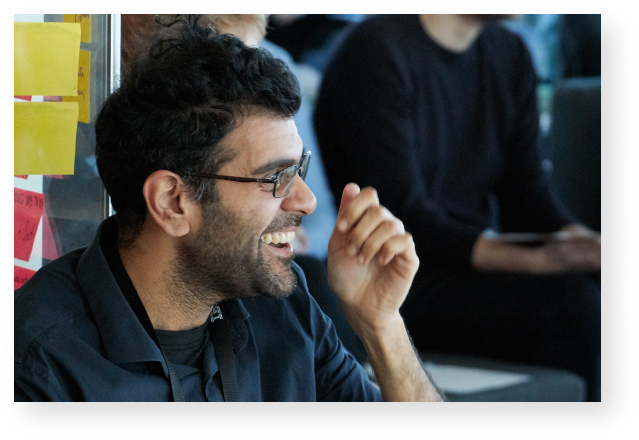
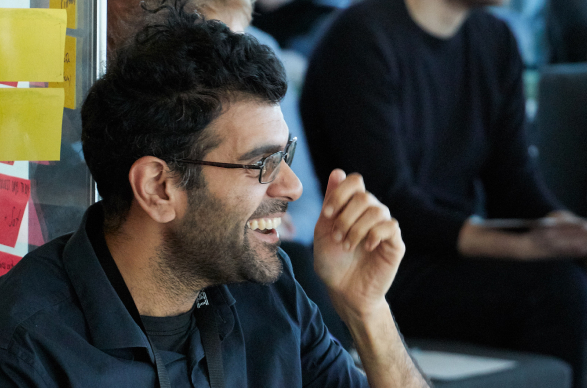
Improve responsiveness of Track Page

diff --git a/frontend/src/components/tracks/what-you-learn/_styles.css b/frontend/src/components/tracks/what-you-learn/_styles.css
@@ -11,20 +11,40 @@
 }
 
 .wyl-content__title {
-  font-size: 72px;
   font-weight: 700;
   margin-top: 90px;
-  margin-bottom: 30px;
+  margin-bottom: 40px;
+  font-size: calc(32px + 3vw);
+
+  @media (max-width: 850px) { 
+    margin-top: 50px;
+  }
+
+  @media (min-width: 1280px) {
+    font-size: 72px;
+  }
 }
 
 .wyl-content__subtitle {
-  font-size: 24px;
+  font-size: calc(14px + 0.7vw);
   font-weight: 700;
   margin-bottom: 70px;
+
+  @media (max-width: 850px) { 
+    margin-bottom: 30px;
+  }
+
+  @media (min-width: 1280px) {
+    font-size: 24px;
+  }
 }
 
-.wyl-content__info__description-box__description {
-  font-size: 18px;
+.wyl-content__info__description-box__text {
+  font-size: calc(10px + 0.6vw);
+
+  @media (min-width: 1280px) {
+    font-size: 18px;
+  }
 }
 
 .wyl-content__info__description-box__text p:nth-child(1) {
@@ -43,6 +63,7 @@
   height: 0;
   padding-bottom: 65%;
   margin-bottom: -70px;
+  box-shadow: 12px 12px 26px rgba(0, 0, 0, 0.15);
 }
 
 .wyl-content__background {

diff --git a/frontend/src/components/tracks/header/_styles.css b/frontend/src/components/tracks/header/_styles.css
@@ -15,31 +15,29 @@
   justify-content: center;
   height: calc(100% - var(--nav-height-desktop));
   padding-top: 5%;
-  padding-bottom: 10%;
+  padding-bottom: 12%;
 }
 
 .tracks__header-content__title {
   margin: 0;
   color: white;
-  font-size: 64px;
   text-transform: uppercase;
   font-weight: 800;
+  font-size: calc(32px + 3vw);
 
-  @media (max-width: 620px) {
-    font-size: 32px
+  @media (min-width: 1280px) {
+    font-size: 72px;
   }
-
 }
 
 .tracks__header-content__description {
   color: white;
   max-width: var(--max-width);
-  font-size: 20px;
   font-weight: 600;
   margin-bottom: 20px;
+  font-size: calc(10px + 0.7vw);
 
-  @media (max-width: 620px) {
-    font-size: 16px
+  @media (min-width: 1280px) {
+    font-size: 20px;
   }
 }
-

diff --git a/frontend/src/components/tracks/track-image/_styles.css b/frontend/src/components/tracks/track-image/_styles.css
@@ -6,10 +6,7 @@
   width: 80%;
   padding-bottom: 30%;
   margin-top: -8%;
-
-  @media (min-width: 1280px) {
-    margin-top: -10%;
-  }
+  box-shadow: 12px 12px 26px rgba(0, 0, 0, 0.15);
 
   @media (max-width: 850px) {
     width: 100%;
